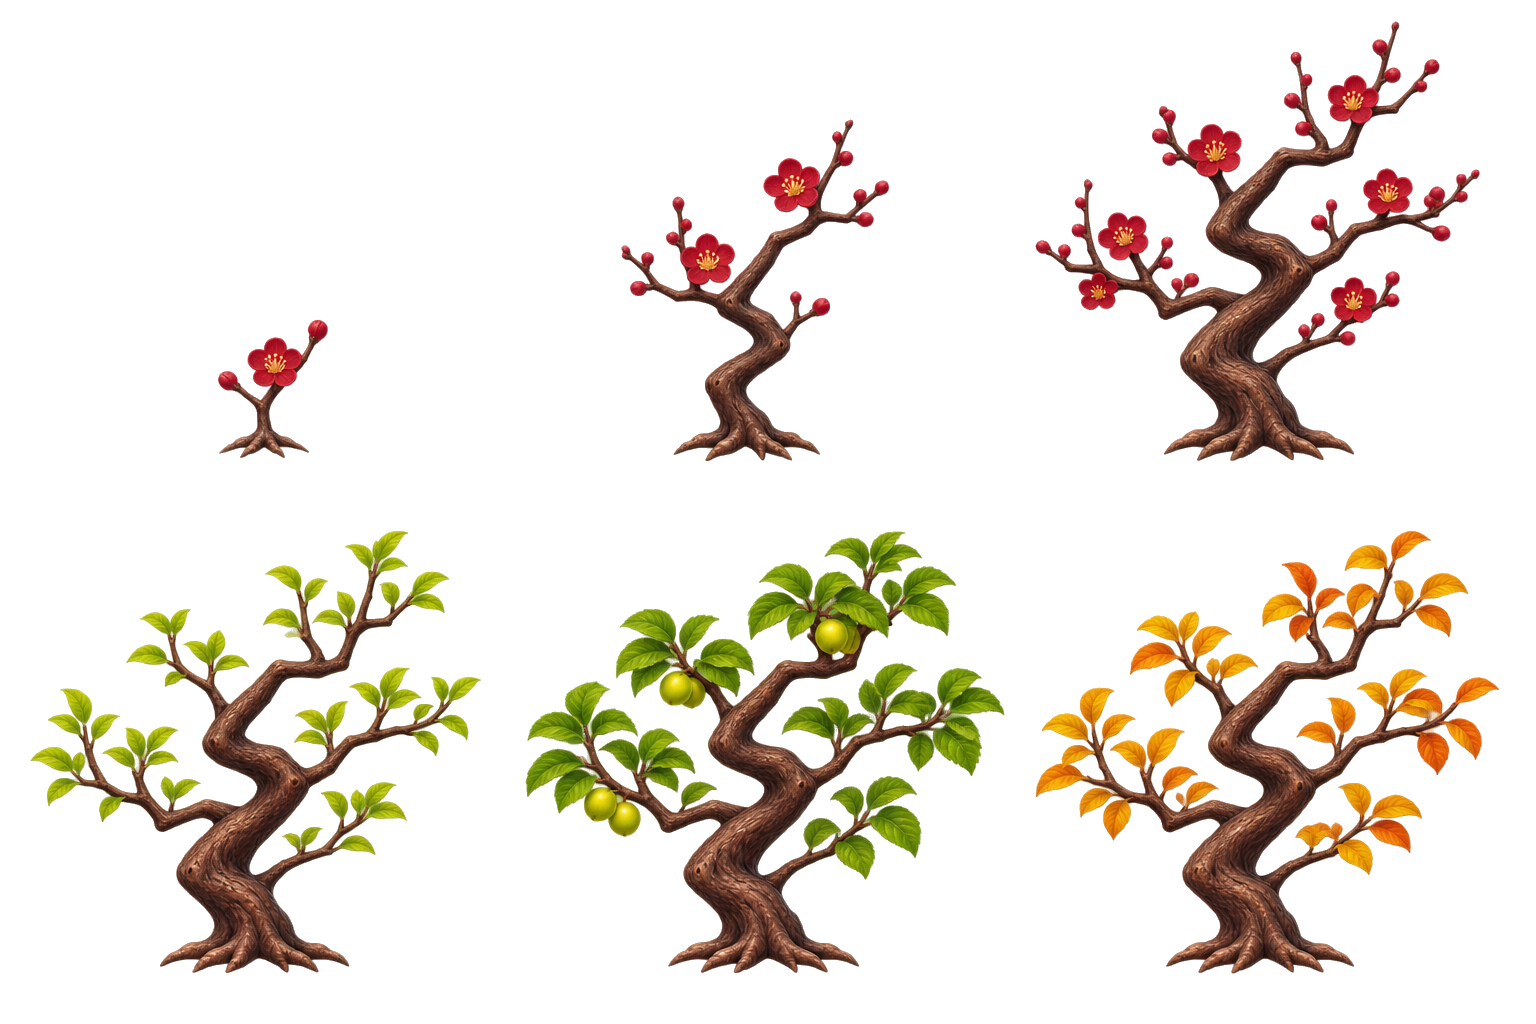
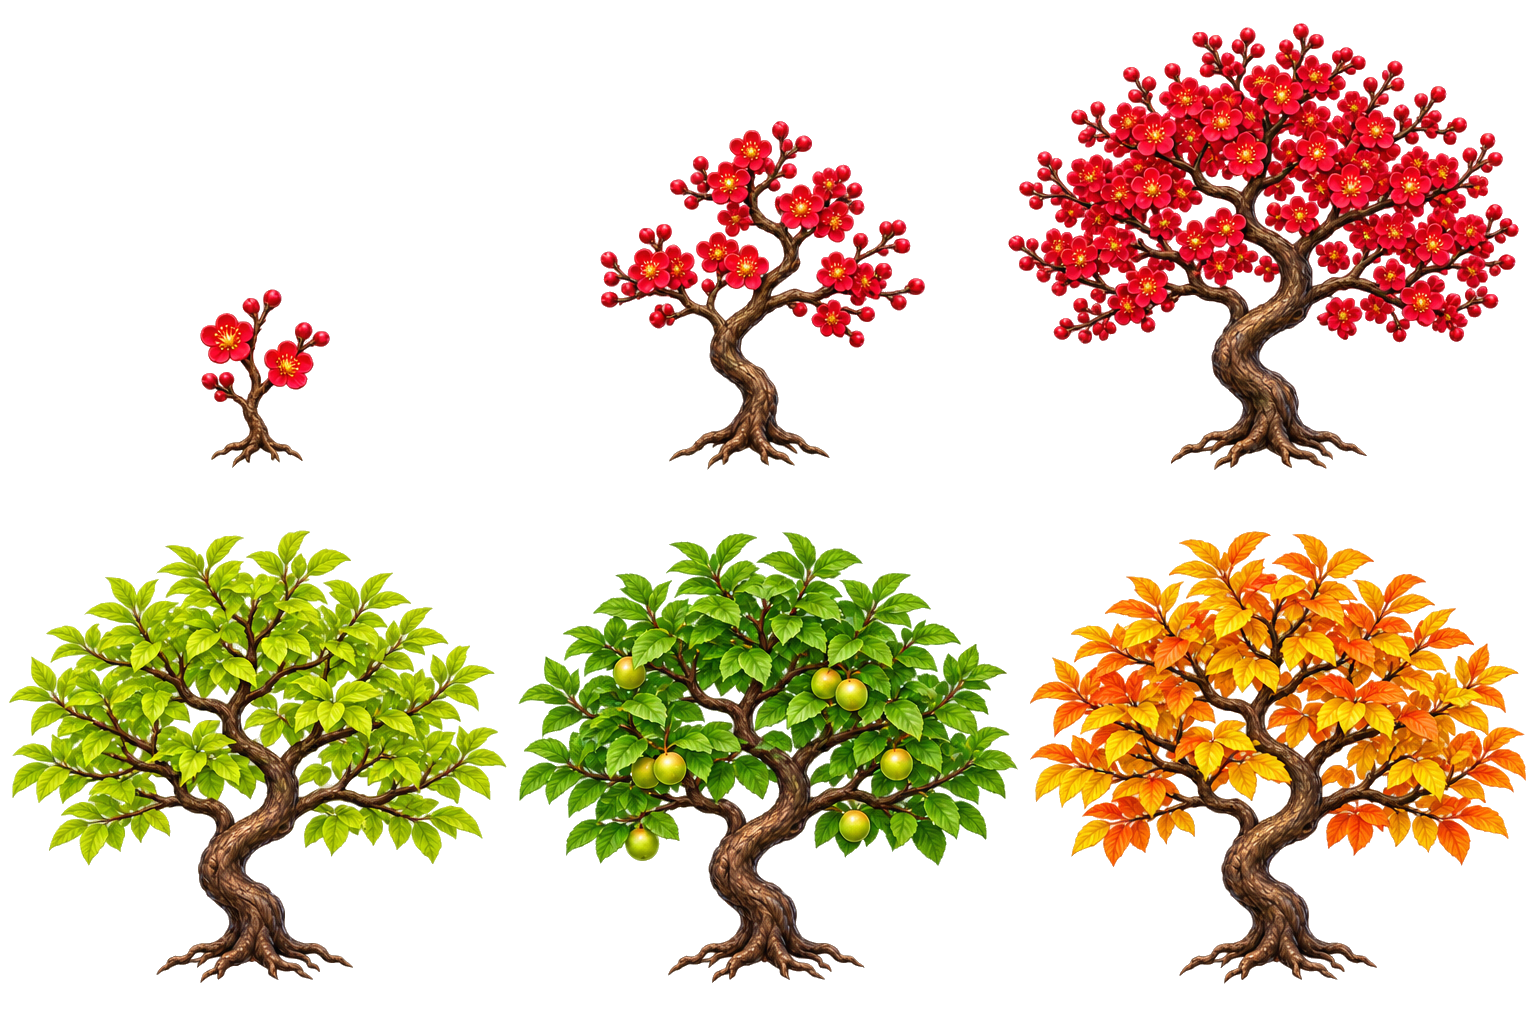
The red plum is drawn fuller, with crimson blossom along every branch
What changed
- red_plum-source.png is the approved redraw: a fuller crown, crimson blossom clusters lining every branch, an S-curved trunk; same six-tree sheet layout.
- Alpha below 50 cleared to 0,0,0,0, which also removes the coloured RGB the generator left under transparent pixels; the raw hash and the full prompt are in ART-SOURCES.json.
- New crops and frames for all six viewports; the four mature frames share one scale and the trunk's centerline, and every frame keeps its stage box ratio.
- Packed SVGs, the WebP atlas, webp.json and the album preview regenerated; assets/discovery/README.md has a dated note.

Why
- The old red plum read thin next to the other mature trees; the redraw was approved as the reference look.

How it was checked
- node scripts/pack-discovery.mjs and node scripts/art-webp.mjs --check: sources, hashes and WebPs match.
- Frames: crop inside frame within the padding, ratio matches size, one mature scale for the species.
- Captures (winter, summer, app 1180 px and mini 460x320) against the old art: crown not cut, summer plums match the green-plums fruit art; the mature tree is about 4% shorter on screen and the young one about 11% shorter (its wider crown meets the 70 px box).
- node --test tests/*.test.mjs: all pass except the 14 creator-kit tests that need Pillow locally.

diff --git a/assets/discovery/README.md b/assets/discovery/README.md
@@ -142,6 +142,16 @@ Fallen fruit (2026-11-16):
   and halved with premultiplied averaging, so the WebP stays near 100 KB.
 - Alpha below 50 is cleared as before; raw hashes are in `ART-SOURCES.json`.
 
+The red plum redrawn (2026-11-16):
+- `red_plum-source.png` replaces the 2026-11-15 red plum with a fuller crown,
+  crimson blossom clusters along every branch and an S-curved trunk; the layout
+  is the six-tree sheet as before.
+- The summer tree's green plums match `green-plums-source.png`.
+- The generator left coloured RGB under transparent pixels; clearing alpha
+  below 50 to 0,0,0,0 removes it with the halo. The raw hash is in
+  `ART-SOURCES.json`.
+- The four mature frames share one scale and the trunk's centerline.
+
 More finds (2026-11-03):
 - `more-finds-source.png` holds the cicada shell, blue feather, pinecone, old
   key, paper boat, spinning top, freshwater pearl and four-leaf clover in
